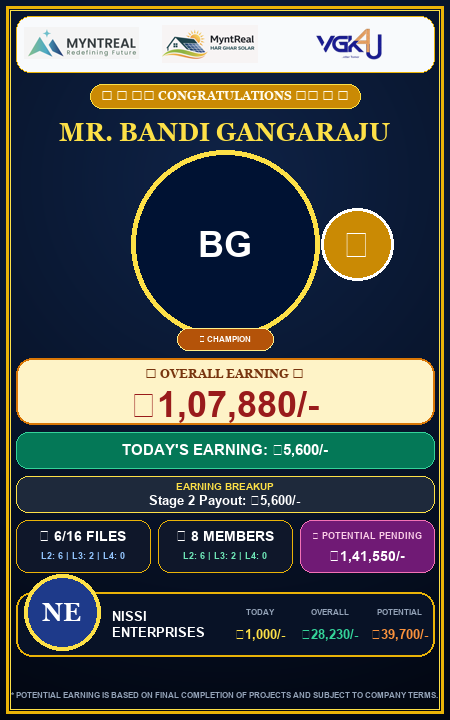
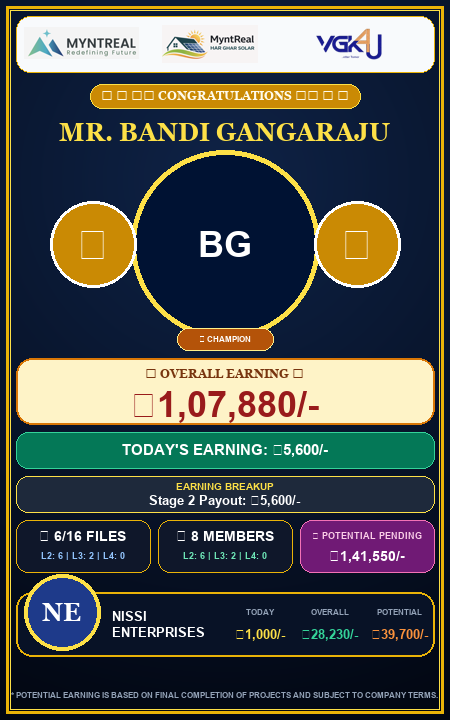
feat(poster): enlarge 3D trophy badges 20% to 86px and place symmetrical dual trophies on left and right sides of main photo circle

Changed region(s): [[0.0933, 0.275, 0.3111, 0.3972], [0.6844, 0.275, 0.9022, 0.3972]]

diff --git a/MyntReal_Latest/frontend/staff_vgk_members.html b/MyntReal_Latest/frontend/staff_vgk_members.html
@@ -7338,15 +7338,19 @@ function _renderCommDetailTable(partnerId) {
               <div id="prevSubtitle" style="font-size:26px;font-weight:950;background:linear-gradient(180deg,#ffffff 0%,#fef08a 45%,#eab308 100%);-webkit-background-clip:text;-webkit-text-fill-color:transparent;filter:drop-shadow(0 2px 8px rgba(234,179,8,0.65));font-family:Georgia,serif;text-transform:uppercase;letter-spacing:0.8px;line-height:1.2">MR. BANDI GANGARAJU</div>
             </div>
 
-            <!-- 4. Member Profile Photo inside Golden Wreath Ring (188px - 20% Larger) with Trophy Beside Photo -->
+            <!-- 4. Member Profile Photo inside Golden Wreath Ring with Symmetrical Dual Champion Trophies (86px - 20% Larger) -->
             <div style="position:relative;width:188px;height:188px;margin-bottom:10px">
+              
+              <!-- Left Side 3D Champion Trophy Badge (86px x 86px) -->
+              <div style="position:absolute;top:50%;left:-84px;transform:translateY(-50%);background:radial-gradient(circle,#fffbeb,#fde047 35%,#b45309 100%);border:3px solid #ffffff;border-radius:50%;width:86px;height:86px;display:flex;align-items:center;justify-content:center;box-shadow:0 6px 22px rgba(0,0,0,0.85), 0 0 28px rgba(251,191,36,0.95);font-size:48px;z-index:10">🏆</div>
+
               <div style="width:188px;height:188px;border-radius:50%;border:5px solid #fde047;overflow:hidden;background:#001233;box-shadow:0 0 45px rgba(234,179,8,0.9);display:flex;align-items:center;justify-content:center">
                 <img id="prevImg" src="" crossorigin="anonymous" style="width:100%;height:100%;object-fit:cover;object-position:center 20%;display:none">
                 <div id="prevAvatar" style="width:100%;height:100%;display:flex;align-items:center;justify-content:center;background:linear-gradient(135deg,#1d4ed8,#7c3aed);color:white;font-size:58px;font-weight:900">BG</div>
               </div>
 
-              <!-- 2X 3D Champion Trophy Badge (72px x 72px) Placed Completely BESIDE the Photo Circle (Not Overlapping) -->
-              <div style="position:absolute;top:50%;right:-76px;transform:translateY(-50%);background:radial-gradient(circle,#fffbeb,#fde047 35%,#b45309 100%);border:3px solid #ffffff;border-radius:50%;width:72px;height:72px;display:flex;align-items:center;justify-content:center;box-shadow:0 6px 20px rgba(0,0,0,0.85), 0 0 25px rgba(251,191,36,0.95);font-size:40px;z-index:10">🏆</div>
+              <!-- Right Side 3D Champion Trophy Badge (86px x 86px) -->
+              <div style="position:absolute;top:50%;right:-84px;transform:translateY(-50%);background:radial-gradient(circle,#fffbeb,#fde047 35%,#b45309 100%);border:3px solid #ffffff;border-radius:50%;width:86px;height:86px;display:flex;align-items:center;justify-content:center;box-shadow:0 6px 22px rgba(0,0,0,0.85), 0 0 28px rgba(251,191,36,0.95);font-size:48px;z-index:10">🏆</div>
 
               <!-- Champion Pill at Bottom -->
               <div style="position:absolute;bottom:-7px;left:50%;transform:translateX(-50%);background:linear-gradient(135deg,#b45309,#f59e0b,#b45309);border:1px solid #fef08a;color:#ffffff;font-size:9.5px;font-weight:900;padding:2.5px 16px;border-radius:12px;letter-spacing:1.2px;white-space:nowrap;box-shadow:0 3px 10px rgba(0,0,0,0.6)">🏆 CHAMPION</div>
